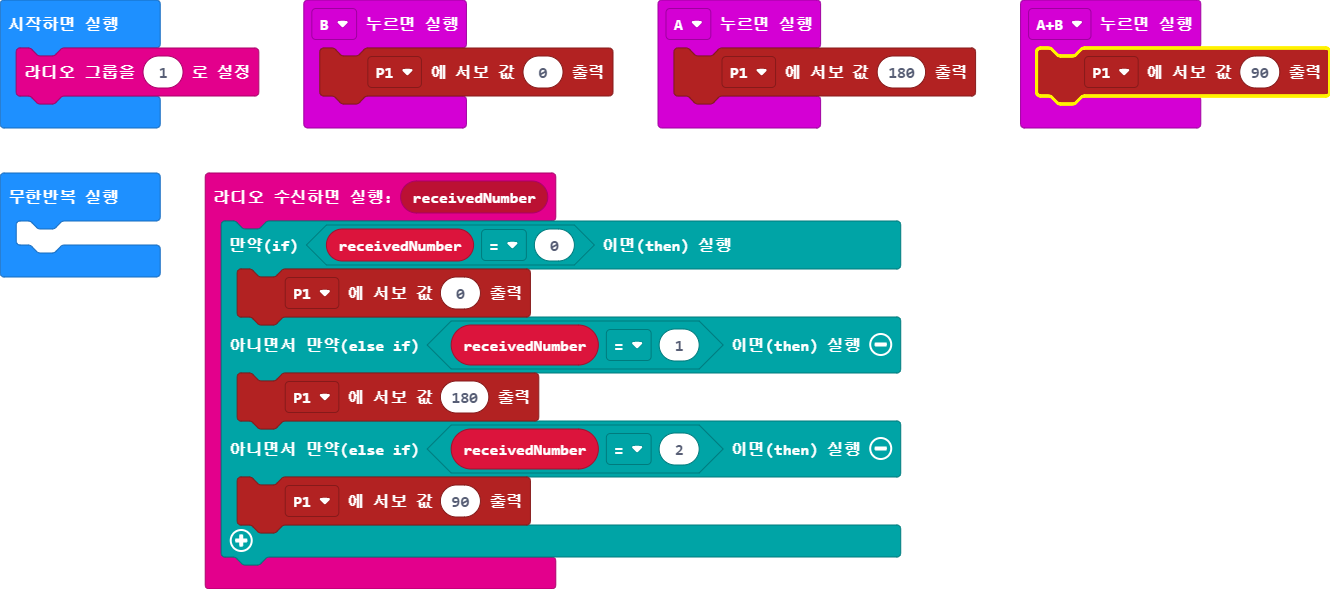
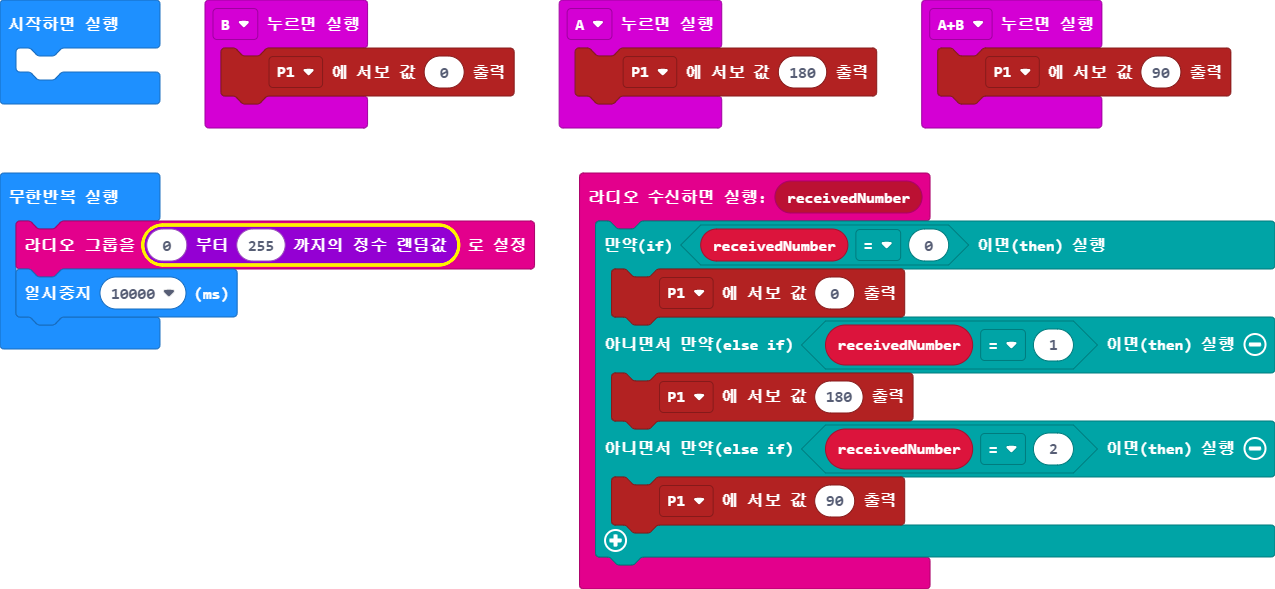
main.blocks, main.ts 업데이트하기

diff --git a/main.ts b/main.ts
@@ -16,7 +16,7 @@ input.onButtonPressed(Button.AB, function () {
 input.onButtonPressed(Button.B, function () {
     pins.servoWritePin(AnalogPin.P1, 0)
 })
-radio.setGroup(1)
 basic.forever(function () {
-	
+    radio.setGroup(randint(0, 255))
+    basic.pause(10000)
 })
